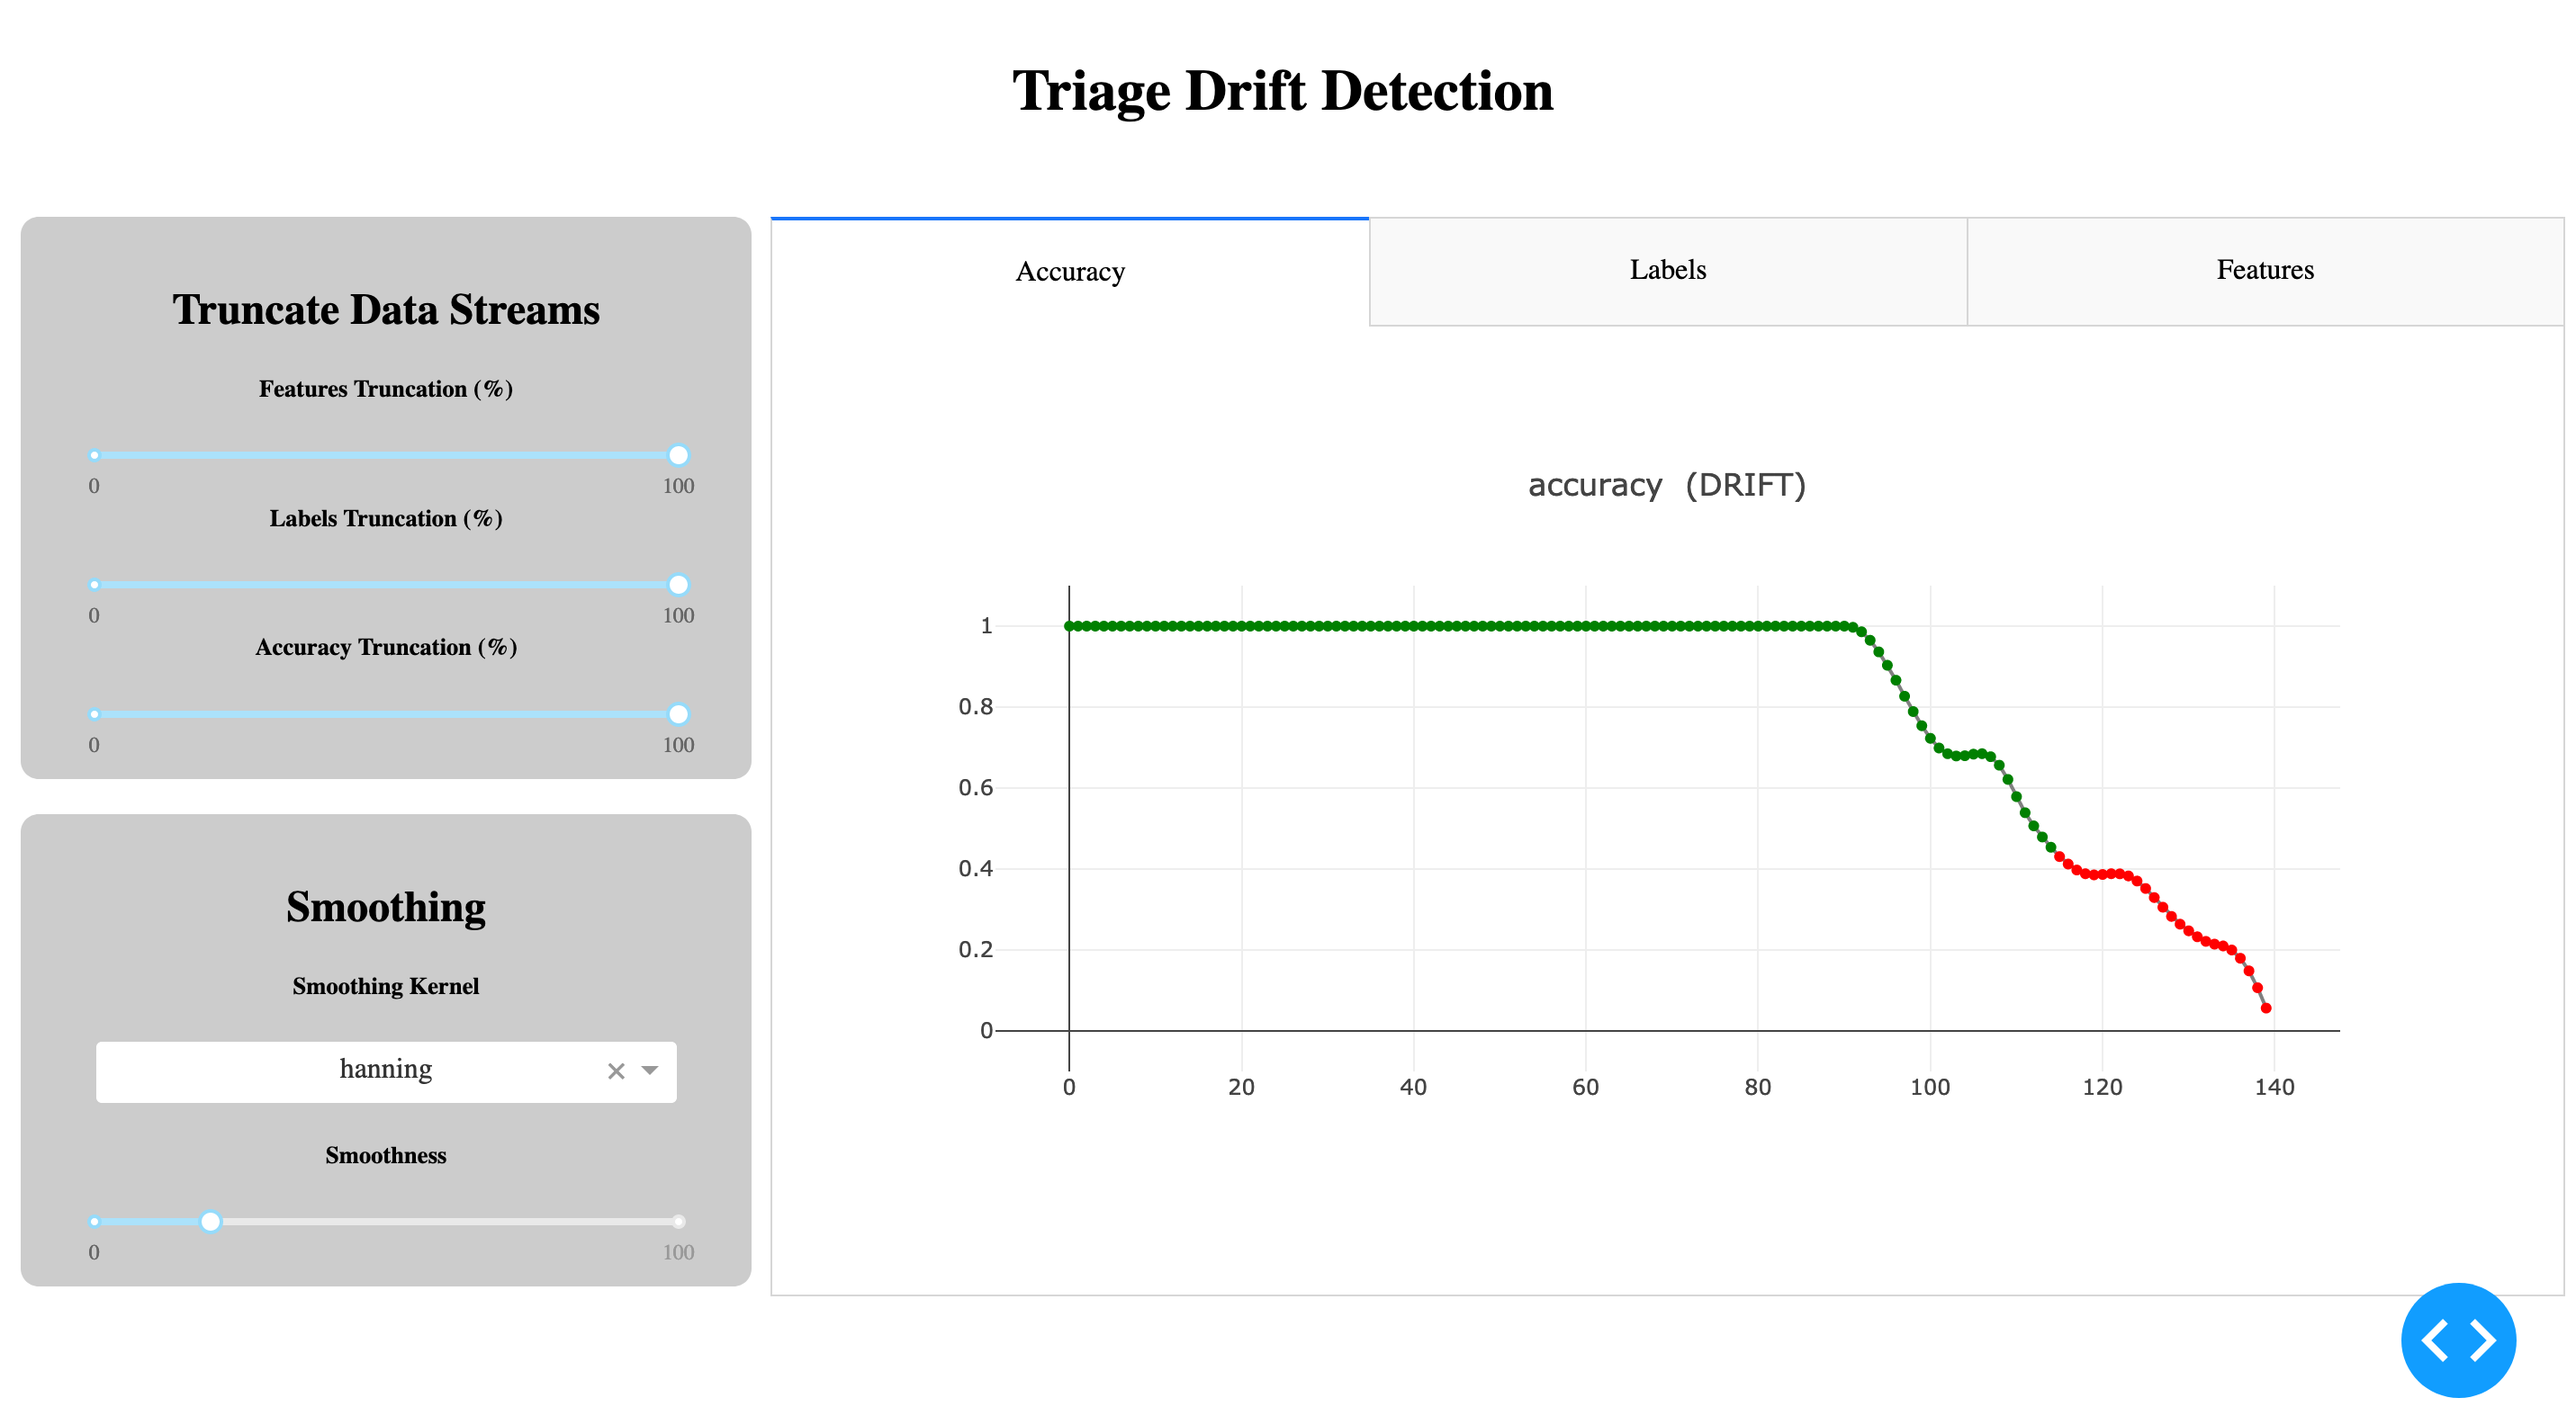
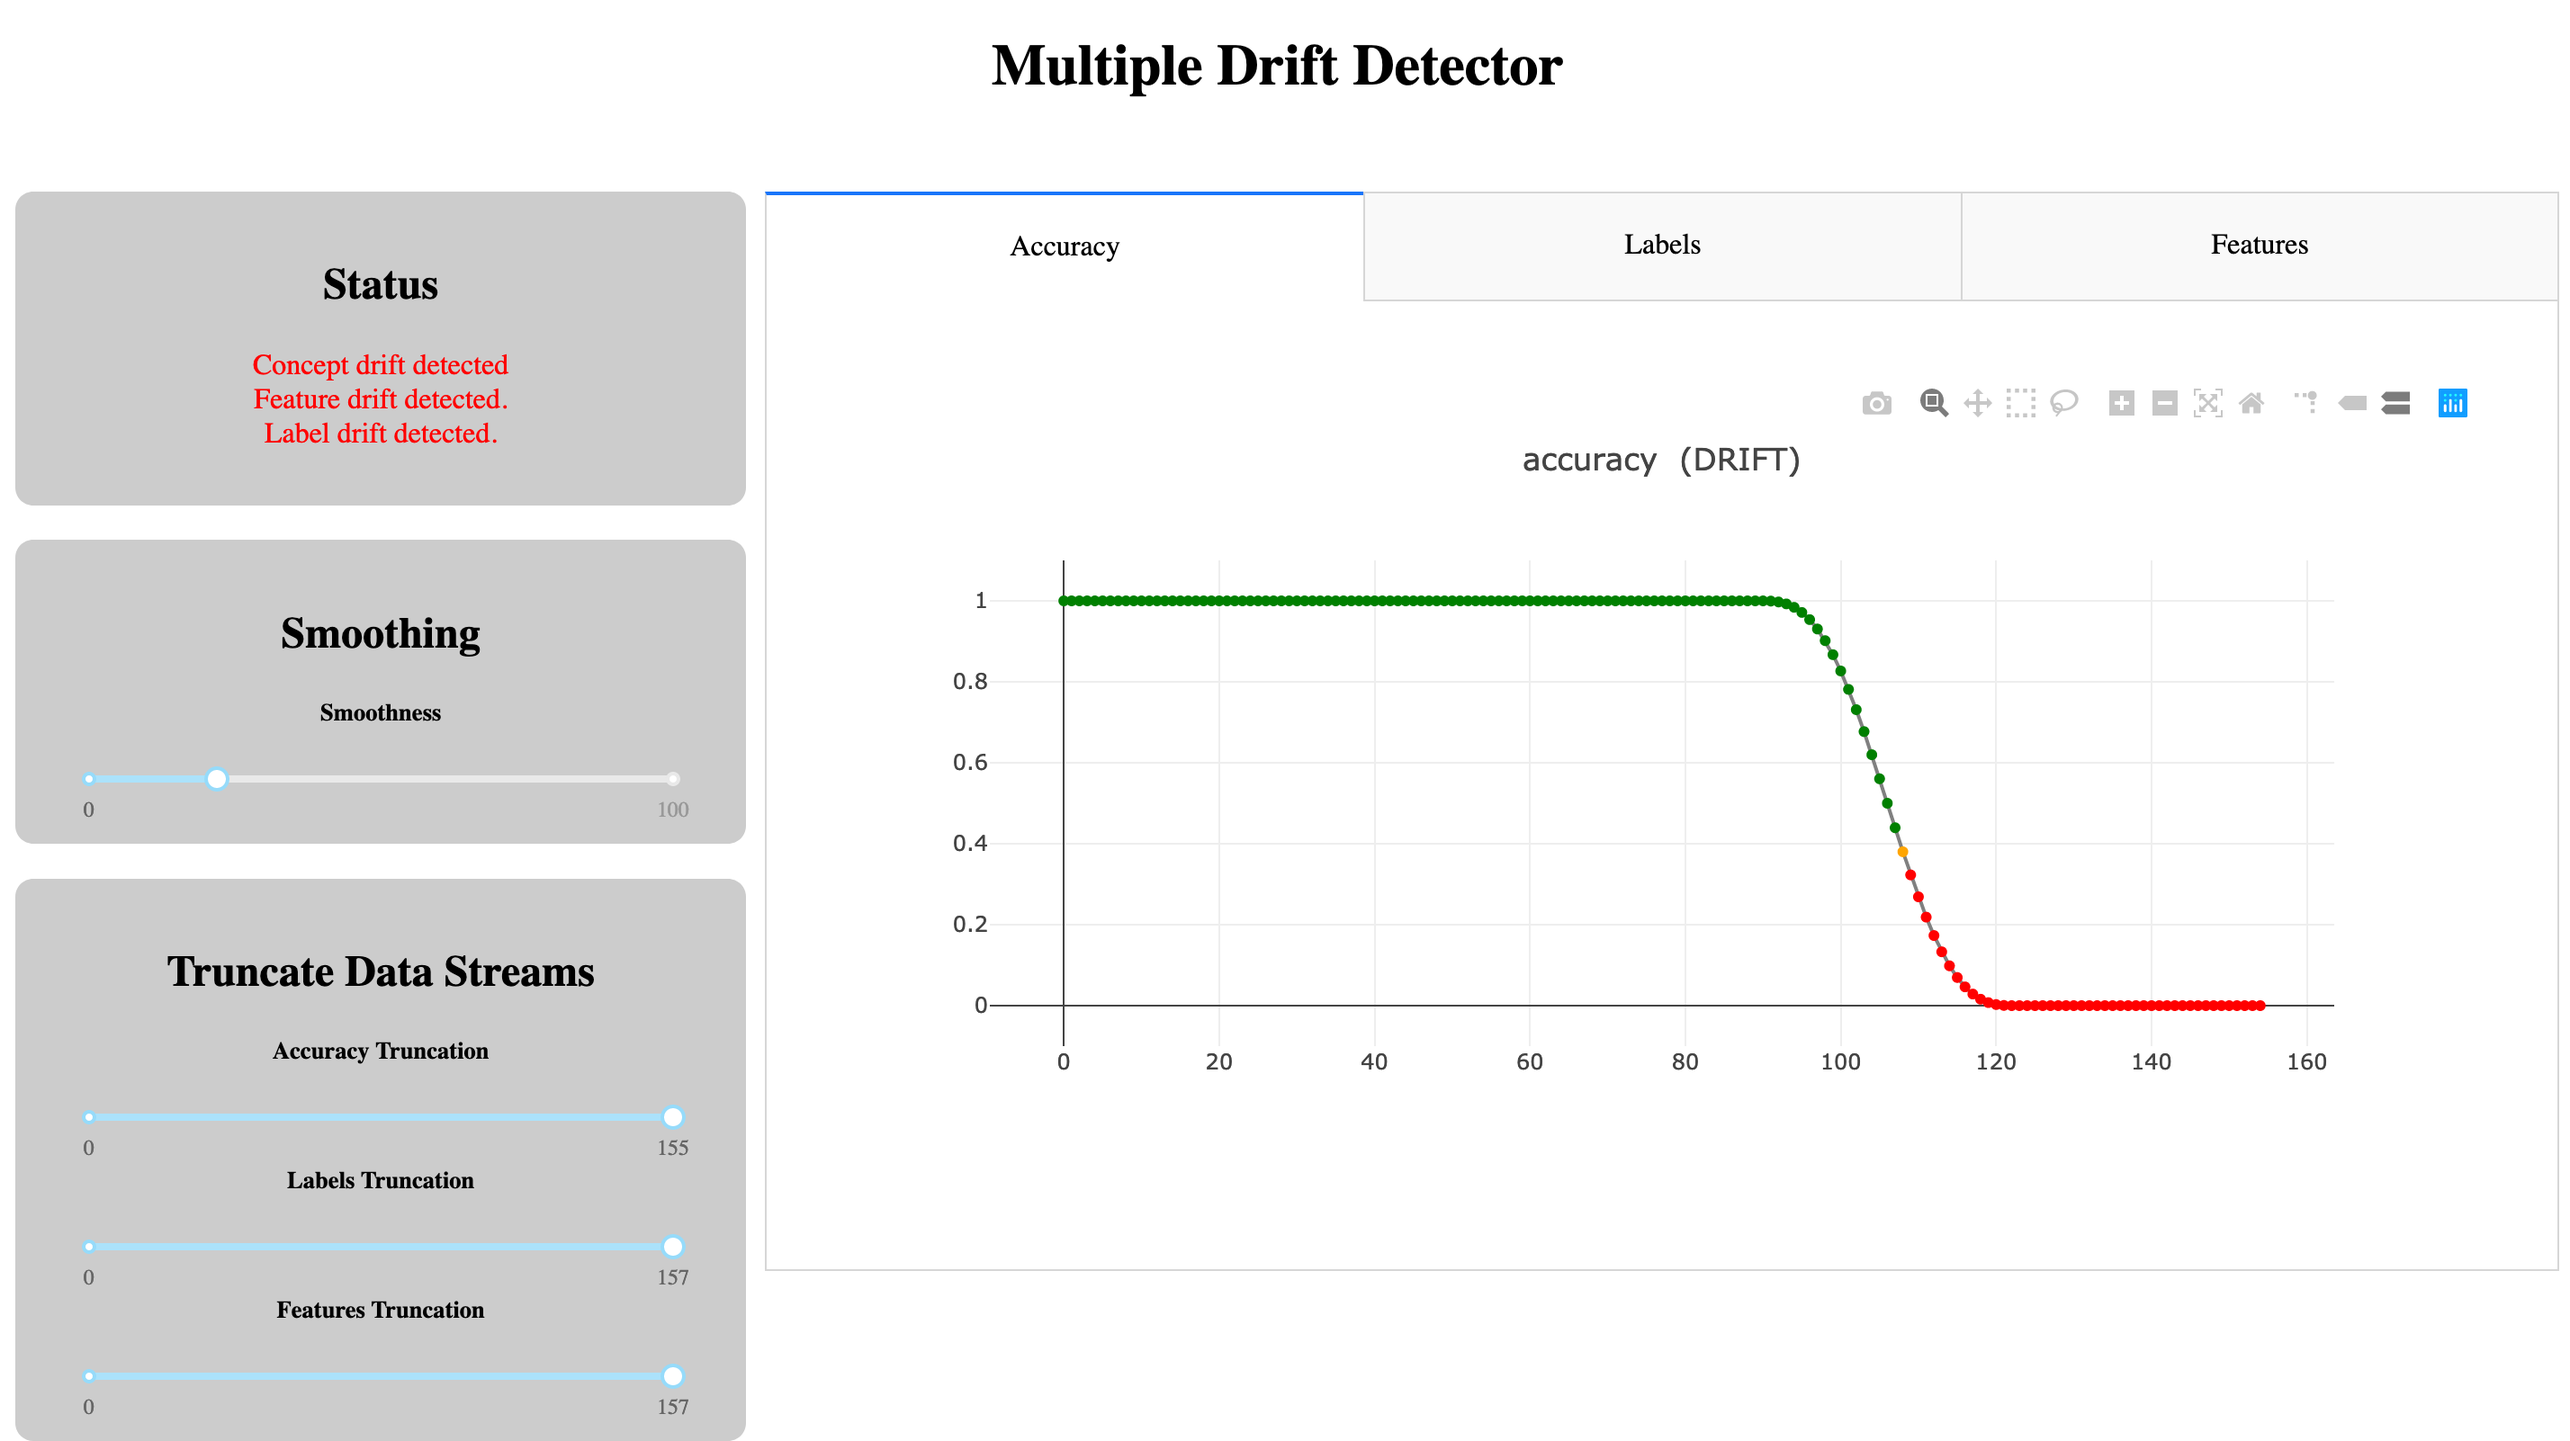
update readme

diff --git a/README.md b/README.md
@@ -108,9 +108,10 @@ If you open `http://127.0.0.1:8050/` in a browser, you should see the following 
 
 ![demo](demo.png)
 
-On the left we have two control panels:
+On the left we have three control panels:
+ * __Status__ gives a summary status of the drift detector: whether any of concept drift, feature drift, or label drift have been detected.
+ * __Smoothing__ lets you change the smoothness of the plots. Smoothing is achieved via a Hanning kernels, and this slider adjusts the width of the kernel as a percentage of the length of a data stream.
  * __Truncate Data Streams__ lets you cut off the last $x$% of the data stream to see how it looked previously. The three sliders let you truncate the accuracy, labels, and features streams separately.
- * __Smoothing__ lets you change the smoothness of the plots. Smoothing is achieved via kernels, and you can adjust both the kernel shape and the width of the kernel. In layman's terms, the slider lets you adjust how smooth the kernel is.
 
 On the right we have three tabs:
  * __Accuracy tab__ shows how the accuracy is evolving over time.
@@ -133,6 +134,7 @@ README:
  * Talk about the choice of underlying drift detector
 
 Dash app:
+ * I think this crashes when 100% truncate accuracy.
  * Expand documentation
  * Paginate feature plots
 
